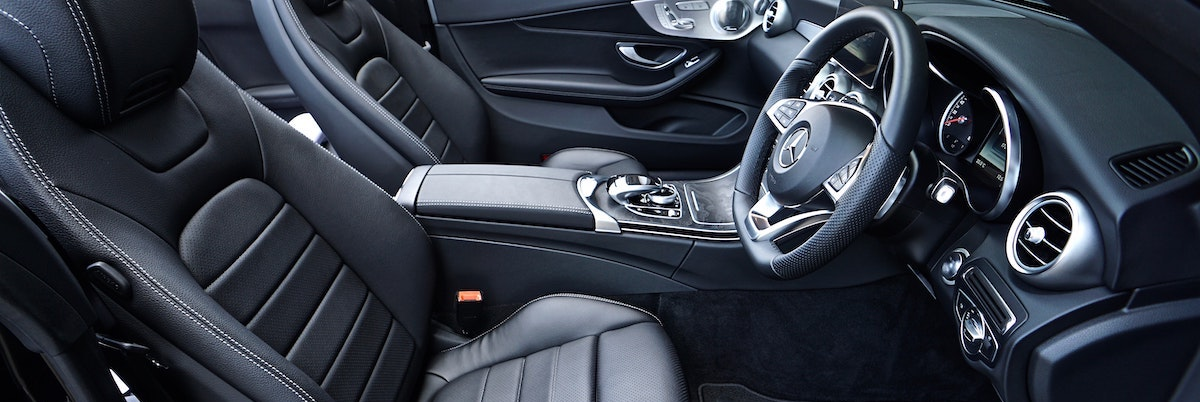
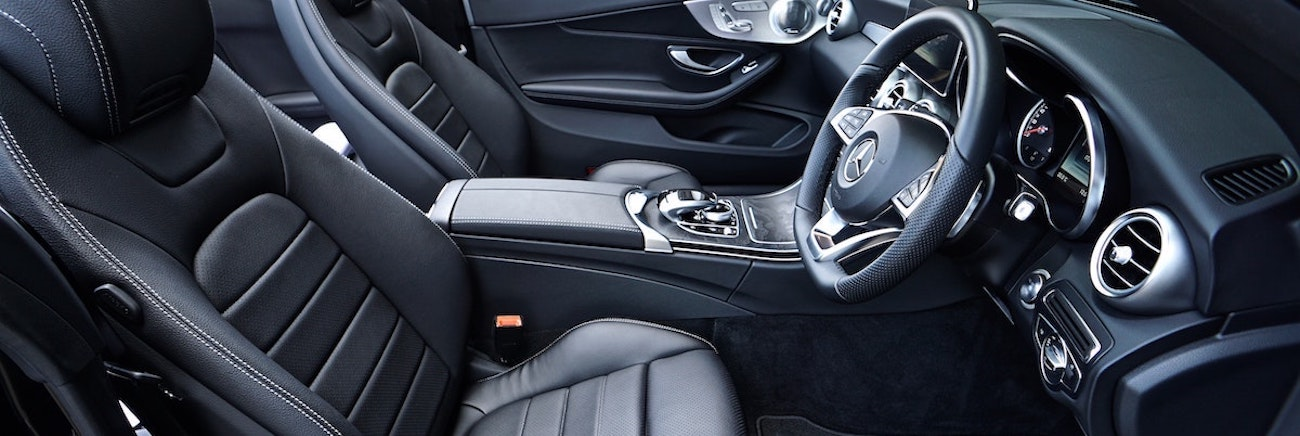
Front image fix

diff --git a/public/index.html b/public/index.html
@@ -1,55 +1,1 @@
-<!DOCTYPE html><html><head><meta charSet="utf-8"/><meta http-equiv="x-ua-compatible" content="ie=edge"/><meta name="viewport" content="width=device-width, initial-scale=1, shrink-to-fit=no"/><meta name="generator" content="Gatsby 2.7.1"/><title data-react-helmet="true"></title><style data-styled="ffjeSu PEOiw gFIFBJ crWQFv goOTg eHsyrZ jUmkmN cXhLqy fmhNxW ufTnp gEbhcc jTJUpa gFXVMx hPYshd kRkYW bTdnfW hGghAh iYUlmr fpXiQs hWLsRU kJbrMh hzmMIR chikld PKKbk bCnges fTGPgw" data-styled-version="4.2.0">
-/* sc-component-id: sc-global-1660490956 */
-html{font-size:56.5%;} body{padding:0;margin:0;font-family:Montserrat,sans-serif;} *,*::before,*::after{box-sizing:border-box;}
-/* sc-component-id: Layout__StyledWrapper-sc-891xqw-0 */
-.ffjeSu{height:100%;position:relative;background:#fff;}
-/* sc-component-id: Nav__NavBar-sc-1bhu89j-0 */
-.eHsyrZ{position:absolute;top:70%;right:2.5%;height:7rem;display:-webkit-box;display:-webkit-flex;display:-ms-flexbox;display:flex;-webkit-box-pack:justify;-webkit-justify-content:space-between;-ms-flex-pack:justify;justify-content:space-between;-webkit-align-items:center;-webkit-box-align:center;-ms-flex-align:center;align-items:center;z-index:10;} @media (max-width:720px){.eHsyrZ{right:0;width:100%;top:0;}}
-/* sc-component-id: Nav__StyledList-sc-1bhu89j-1 */
-.jUmkmN{display:-webkit-box;display:-webkit-flex;display:-ms-flexbox;display:flex;background:#0b0b0b;height:100%;opacity:.85;-webkit-box-pack:justify;-webkit-justify-content:space-between;-ms-flex-pack:justify;justify-content:space-between;-webkit-align-items:center;-webkit-box-align:center;-ms-flex-align:center;align-items:center;width:100%;} @media (max-width:720px){.jUmkmN{position:absolute;width:100%;top:0;opacity:1;margin:0;}}
-/* sc-component-id: Nav__StyledListItem-sc-1bhu89j-2 */
-.cXhLqy{color:#dba622;text-transform:uppercase;list-style:none;display:inline;font-size:2rem;margin:5rem;} @media (max-width:720px){.cXhLqy{display:none;}}
-/* sc-component-id: Nav__HamburgerIcon-sc-1bhu89j-3 */
-.gEbhcc{display:none;} @media (max-width:720px){.gEbhcc{display:inline-block;}}
-/* sc-component-id: Nav__StyledLink-sc-1bhu89j-7 */
-.fmhNxW{color:#dba622;-webkit-text-decoration:none;text-decoration:none;}
-/* sc-component-id: Nav__StyledHref-sc-1bhu89j-8 */
-.ufTnp{color:#dba622;-webkit-text-decoration:none;text-decoration:none;}
-/* sc-component-id: H1-sc-15l2jov-0 */
-.hPYshd{font-size:5rem;color:#ffffff;text-align:center;font-weight:200;}
-/* sc-component-id: P1-sc-1hon7c8-0 */
-.bTdnfW{font-size:3.5rem;color:#ffffff;text-align:center;width:80%;margin:10rem auto 0 auto;border-bottom:1px solid #ffffff;padding-bottom:2rem;}
-/* sc-component-id: MainSlider__StyledContainer-l94mcf-0 */
-.gFIFBJ{position:relative;margin:0 auto;outline:none;}
-/* sc-component-id: MainSlider__StyledLogo-l94mcf-1 */
-.goOTg{width:15rem;z-index:100;top:5%;left:5%;height:15rem;position:absolute;z-index:0;} @media (max-width:720px){.goOTg{top:25%;width:10rem;height:10rem;}} @media (max-width:500px){.goOTg{height:30rem;width:30rem;left:50%;top:25%;-webkit-transform:translateX(-50%);-ms-transform:translateX(-50%);transform:translateX(-50%);}}
-/* sc-component-id: MainSlider__SliderContainer-l94mcf-2 */
-.crWQFv{width:100%;height:55vh;overflow:hidden;} @media (max-width:500px){.crWQFv{display:-webkit-box;display:-webkit-flex;display:-ms-flexbox;display:flex;-webkit-box-pack:center;-webkit-justify-content:center;-ms-flex-pack:center;justify-content:center;text-align:center;}}
-/* sc-component-id: MainSlider__StyledImg-l94mcf-3 */
-.gFXVMx{max-width:1200px;height:405px;} @media (max-width:720px){.gFXVMx{height:296px;max-width:720px;margin:20px 0;}}
-/* sc-component-id: MainSlider__DisplayContainer-l94mcf-4 */
-.jTJUpa{height:100%;width:100%;display:block;}
-/* sc-component-id: Span-sc-15r7588-0 */
-.kRkYW{color:#dba622;}
-/* sc-component-id: pages__IndexContainer-sc-6kvjaa-0 */
-.PEOiw{background-color:#0b0b0b;width:90%;height:100%;margin:0 auto;box-shadow:0px 0px 50px rgba(29,37,47,0.8);} @media (max-width:1100px){.PEOiw{width:100%;}}
-/* sc-component-id: pages__BeforeAfterContainer-sc-6kvjaa-1 */
-.hzmMIR{position:relative;margin:25px auto 0 auto;background-color:#f1f1f1;padding:40px;} @media (max-width:800px){.hzmMIR{padding:10px;height:300px;}} @media (max-width:500px){.hzmMIR{padding:0;height:250px;}}
-/* sc-component-id: pages__AttributesContainer-sc-6kvjaa-2 */
-.hGghAh{position:relative;margin:25px auto 0 auto;background-color:#f1f1f1;padding:40px;display:-webkit-box;display:-webkit-flex;display:-ms-flexbox;display:flex;height:400px;-webkit-box-pack:space-around;-webkit-justify-content:space-around;-ms-flex-pack:space-around;justify-content:space-around;} @media (max-width:720px){.hGghAh{height:500px;-webkit-flex-wrap:wrap;-ms-flex-wrap:wrap;flex-wrap:wrap;height:100%;margin:10px auto;}}
-/* sc-component-id: pages__IconContainer-sc-6kvjaa-3 */
-.iYUlmr{position:relative;height:250px;width:250px;display:-webkit-box;display:-webkit-flex;display:-ms-flexbox;display:flex;-webkit-box-pack:center;-webkit-justify-content:center;-ms-flex-pack:center;justify-content:center;-webkit-align-items:space-around;-webkit-box-align:space-around;-ms-flex-align:space-around;align-items:space-around;} @media (max-width:720px){.iYUlmr{width:250px;margin-top:25px;}} @media (max-width:400px){.iYUlmr{margin:20px 0;}}
-/* sc-component-id: pages__Icon-sc-6kvjaa-4 */
-.fpXiQs{position:absolute;height:50px;width:50px;margin-top:10px;}
-/* sc-component-id: pages__ImgContainer-sc-6kvjaa-5 */
-.PKKbk{overflow:hidden;width:90%;margin:0 auto;display:-webkit-box;display:-webkit-flex;display:-ms-flexbox;display:flex;-webkit-box-pack:center;-webkit-justify-content:center;-ms-flex-pack:center;justify-content:center;} @media (max-width:800px){.PKKbk{width:500px;height:300px;}} @media (max-width:520px){.PKKbk{width:400px;height:250px;}} @media (max-width:450px){.PKKbk{width:100%;overflow:hidden;}}
-/* sc-component-id: pages__BeforeBox-sc-6kvjaa-6 */
-.chikld{position:absolute;width:100px;height:75px;background-color:#dba622;-webkit-clip-path:polygon(50% 0%,100% 0,95% 50%,100% 100%,0 100%,5% 50%,0 0);clip-path:polygon(50% 0%,100% 0,95% 50%,100% 100%,0 100%,5% 50%,0 0);color:white;top:50%;left:12%;z-index:100;font-size:20px;display:-webkit-box;display:-webkit-flex;display:-ms-flexbox;display:flex;-webkit-box-pack:center;-webkit-justify-content:center;-ms-flex-pack:center;justify-content:center;-webkit-align-items:center;-webkit-box-align:center;-ms-flex-align:center;align-items:center;text-transform:uppercase;font-family:Helvetica;} @media (max-width:803px){.chikld{font-size:15px;height:50px;width:60px;left:12.5%;}} @media (max-width:680px){.chikld{margin-left:-38px;}} @media (max-width:430px){.chikld{display:none;}}
-/* sc-component-id: pages__AfterBox-sc-6kvjaa-7 */
-.fTGPgw{position:absolute;width:100px;height:75px;background-color:#dba622;-webkit-clip-path:polygon(50% 0%,100% 0,95% 50%,100% 100%,0 100%,5% 50%,0 0);clip-path:polygon(50% 0%,100% 0,95% 50%,100% 100%,0 100%,5% 50%,0 0);color:white;top:50%;left:78%;z-index:100;font-size:20px;display:-webkit-box;display:-webkit-flex;display:-ms-flexbox;display:flex;-webkit-box-pack:center;-webkit-justify-content:center;-ms-flex-pack:center;justify-content:center;-webkit-align-items:center;-webkit-box-align:center;-ms-flex-align:center;align-items:center;text-transform:uppercase;font-family:Helvetica;} @media (max-width:803px){.fTGPgw{font-size:15px;height:50px;width:60px;left:79%;}} @media (max-width:680px){.fTGPgw{left:80%;}} @media (max-width:430px){.fTGPgw{display:none;}}
-/* sc-component-id: pages__H-sc-6kvjaa-8 */
-.hWLsRU{color:#0b0b0b;font-size:20px;text-align:center;position:absolute;top:25%;}
-/* sc-component-id: pages__StyledImg-sc-6kvjaa-9 */
-.bCnges{min-width:80%;height:500px;} @media (max-width:800px){.bCnges{width:500px;height:300px;}} @media (max-width:480px){.bCnges{width:350px;}}
-/* sc-component-id: pages__P1-sc-6kvjaa-10 */
[1 lines of base64/hex data omitted]
+<!DOCTYPE html><html><head><meta charSet="utf-8"/><meta http-equiv="x-ua-compatible" content="ie=edge"/><meta name="viewport" content="width=device-width, initial-scale=1, shrink-to-fit=no"/><title data-react-helmet="true"></title><script src="/socket.io/socket.io.js"></script></head><body><noscript id="gatsby-noscript">This app works best with JavaScript enabled.</noscript><div id="___gatsby"></div><script src="/commons.js"></script></body></html>

diff --git a/src/components/Slider/MainSlider.js b/src/components/Slider/MainSlider.js
@@ -52,8 +52,7 @@ const SliderContainer = styled.div`
 `
 
 const StyledImg = styled.img`
-    max-width: 1200px;
-    height: 405px;
+
     
     @media (max-width: 720px) {
         height: 296px;
